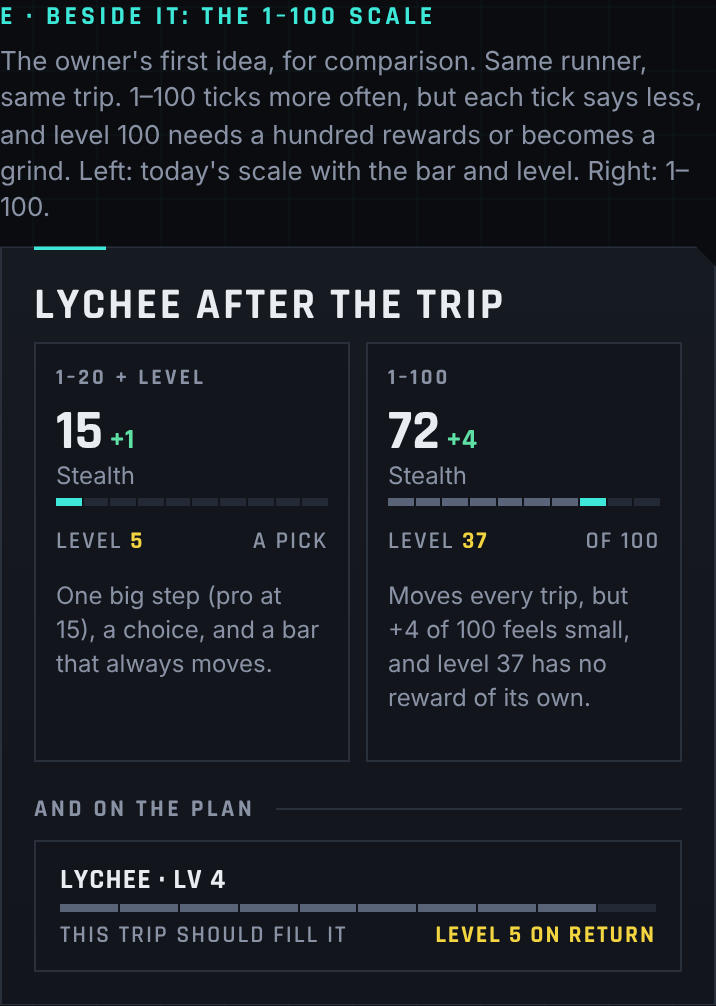
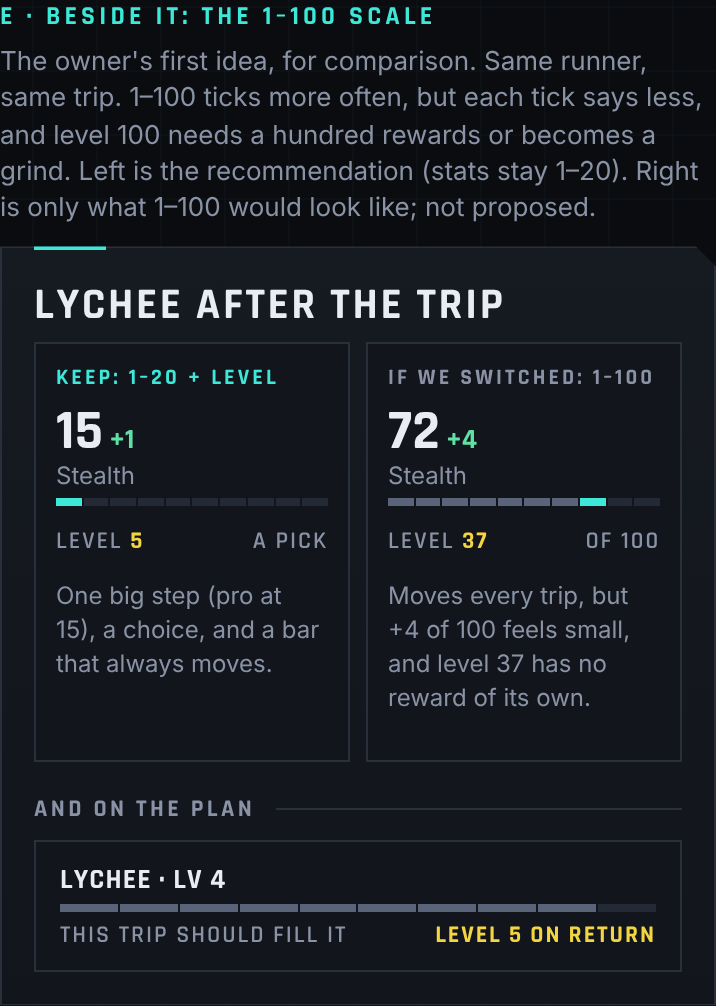
Mockup: label the 1-100 column as comparison only

diff --git a/docs/mockups/2026-11-26-runner-levels.html b/docs/mockups/2026-11-26-runner-levels.html
@@ -240,16 +240,16 @@ h1{font:700 22px var(--disp);letter-spacing:.08em;text-transform:uppercase;margi
     <!-- E -->
     <section>
       <p class="look">E · Beside it: the 1–100 scale</p>
-      <p class="why">The owner's first idea, for comparison. Same runner, same trip. 1–100 ticks more often, but each tick says less, and level 100 needs a hundred rewards or becomes a grind. Left: today's scale with the bar and level. Right: 1–100.</p>
+      <p class="why">The owner's first idea, for comparison. Same runner, same trip. 1–100 ticks more often, but each tick says less, and level 100 needs a hundred rewards or becomes a grind. Left is the recommendation (stats stay 1–20). Right is only what 1–100 would look like; not proposed.</p>
       <div class="panel">
         <div class="title" style="margin-top:0">Lychee after the trip</div>
         <div class="vs">
-          <div><div class="k">1–20 + LEVEL</div>
+          <div><div class="k" style="color:var(--accent-2)">KEEP: 1–20 + LEVEL</div>
             <div class="big">15<small> +1</small></div><div class="small">Stealth</div>
             <div class="bar thin"><i class="new"></i><i></i><i></i><i></i><i></i><i></i><i></i><i></i><i></i><i></i></div>
             <div class="barline" style="margin-top:10px"><span>Level <strong>5</strong></span><span>a pick</span></div>
             <p class="small">One big step (pro at 15), a choice, and a bar that always moves.</p></div>
-          <div><div class="k">1–100</div>
+          <div><div class="k">IF WE SWITCHED: 1–100</div>
             <div class="big">72<small> +4</small></div><div class="small">Stealth</div>
             <div class="bar thin"><i class="on"></i><i class="on"></i><i class="on"></i><i class="on"></i><i class="on"></i><i class="on"></i><i class="on"></i><i class="new"></i><i></i><i></i></div>
             <div class="barline" style="margin-top:10px"><span>Level <strong>37</strong></span><span>of 100</span></div>
